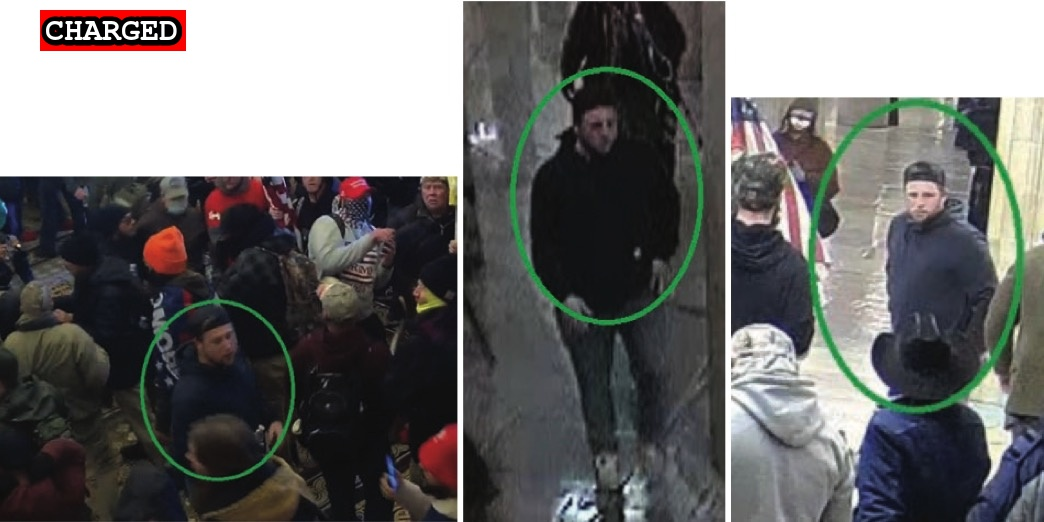
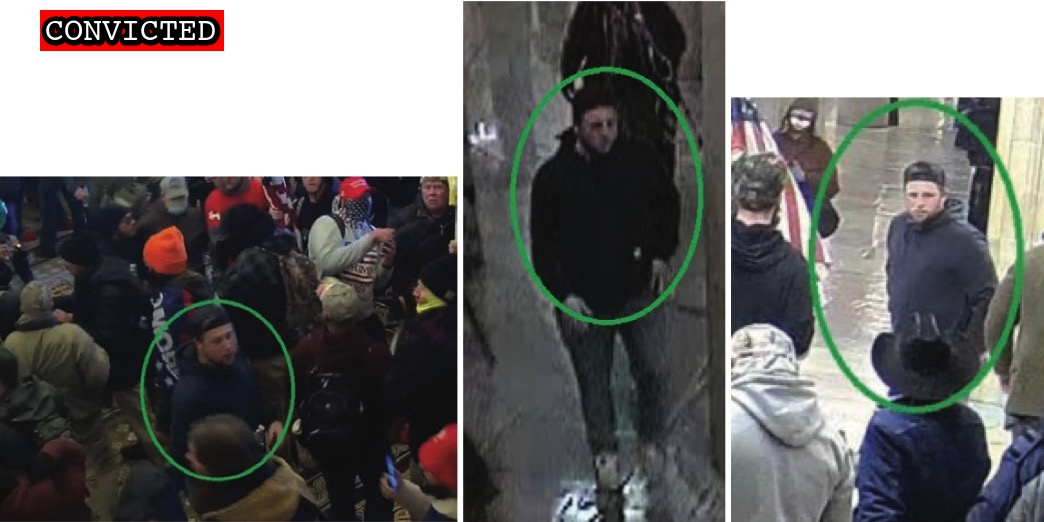
Latest import

Changed region(s): [[0.0307, 0.0, 0.2146, 0.1226]]

diff --git a/docs/_suspects/joshua-dressel.md b/docs/_suspects/joshua-dressel.md
@@ -4,15 +4,17 @@ lastName: Dressel
 hashtag: JoshuaDressel
 aka:
 residence: Missouri
-status: Charged
+status: Convicted
 date: 2021-06-29
 charged: 2021-06-29
 indicted:
-convicted:
+convicted: 2022-08-18
+acquitted:
 sentenced:
 dismissed:
 deceased:
 plea_hearing: 2022-08-18
+trial_date:
 sentencing:
 age: 31
 occupation:
@@ -31,13 +33,18 @@ description: Click for latest case details. Suspects innocent until proven guilt
 author: seditiontrack
 layout: suspect
 published: true
-caseNumber: 1:21-mj-510
+caseNumber: 1:21-cr-572
 videos:
 charges:
+- code: 40 USC § 5104(e)(2)(G)
+  title: Parading, demonstrating or picketing in a Capitol building
+  url: https://www.law.cornell.edu/uscode/text/40/5104
+  felony: false
 sentence:
 ---
-
 - [News Report](https://www.stltoday.com/news/local/crime-and-courts/festus-man-streamed-capitol-riot-video-to-facebook-court-documents-say/article_15c8ff19-3032-5486-8a23-ba88d225f092.html)
 - [Statement of Facts](https://www.justice.gov/usao-dc/case-multi-defendant/file/1412326/download)
 - [Incriminating Evidence (Video)](https://youtu.be/MDg1NG4C2Z0)
-- [Information](https://extremism.gwu.edu/sites/g/files/zaxdzs2191/f/Joshua%20Dressel%20Information.pdf)
+- [Information](https://www.justice.gov/usao-dc/case-multi-defendant/file/1527256/download)
+- [Plea Agreement](https://www.justice.gov/usao-dc/case-multi-defendant/file/1527261/download)
+- [Statement of Offense](https://www.justice.gov/usao-dc/case-multi-defendant/file/1527266/download)
